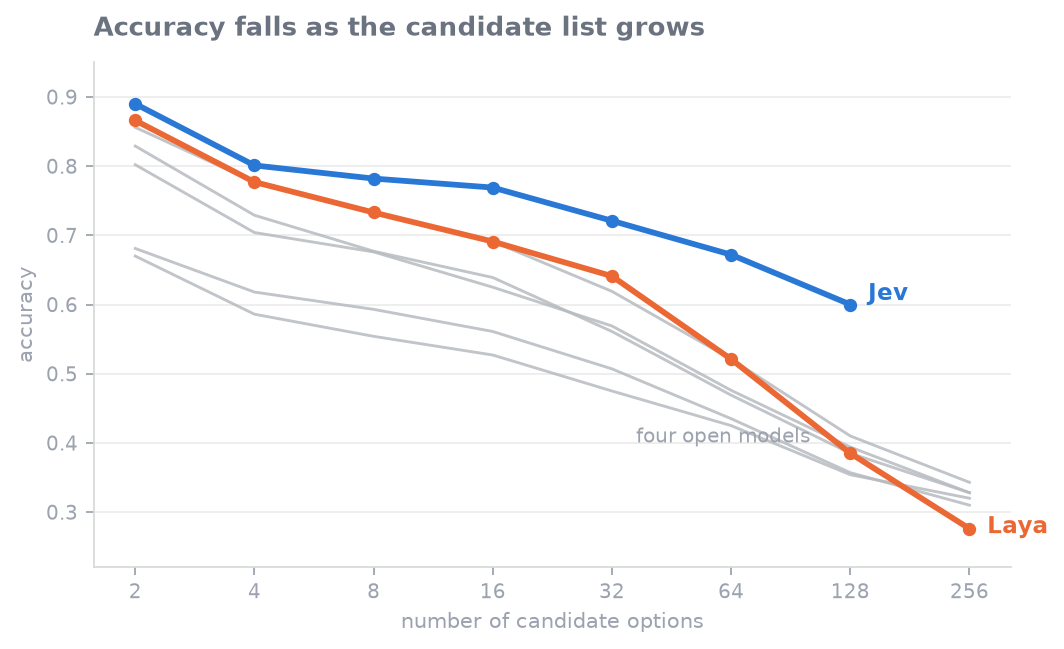
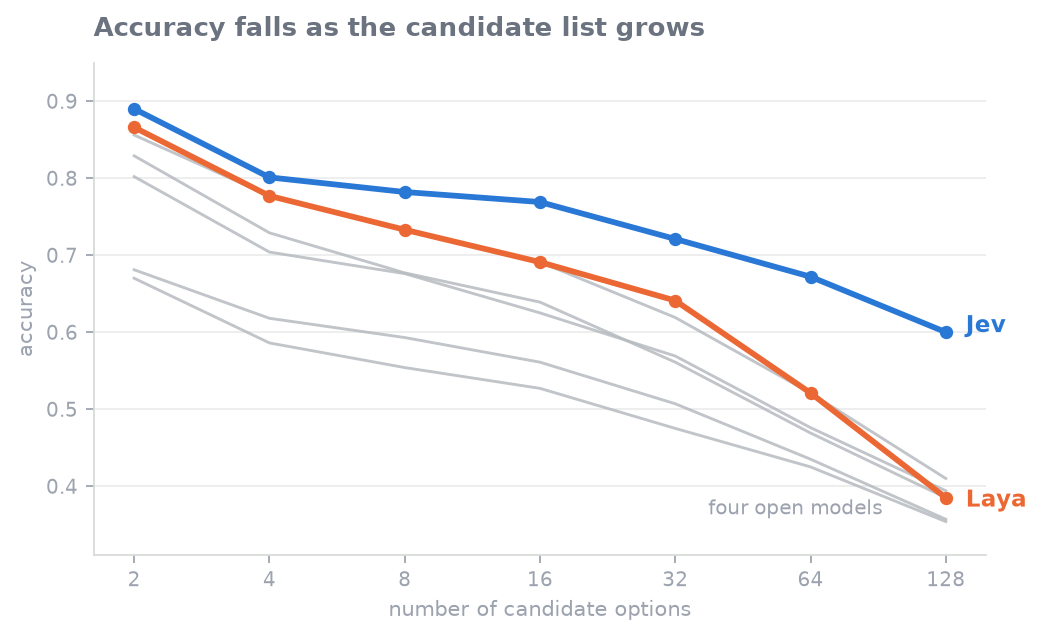
README: name the open models up front, cap the comparison at 128 candidates
Jev's API refuses more than 255 options, so every model now stops at the same
place. Corrects the roster count and restores gliclass, which reads candidates
as a set and belongs in that distinction.

diff --git a/harness/make_figures.py b/harness/make_figures.py
@@ -12,15 +12,15 @@ OUT.mkdir(parents=True, exist_ok=True)
 
 INK, MUTED, GRID = "#6b7280", "#9ca3af", "#d8dad8"
 JEV, LAYA, FIELD = "#2a78d6", "#eb6834", "#b6bbc0"
-KS = [2, 4, 8, 16, 32, 64, 128, 256]
+KS = [2, 4, 8, 16, 32, 64, 128]
 CURVES = {
-    "Jev":            [.890, .801, .782, .769, .721, .672, .600, None],
-    "Laya":           [.866, .777, .733, .691, .641, .521, .385, .276],
-    "deberta-large":  [.856, .777, .733, .691, .619, .521, .410, .343],
-    "deberta-base":   [.829, .729, .677, .639, .561, .469, .385, .328],
-    "gliclass":       [.802, .704, .676, .625, .569, .476, .394, .328],
-    "bge-large":      [.681, .618, .593, .561, .507, .435, .357, .310],
-    "gte-large":      [.670, .586, .554, .527, .475, .425, .354, .320],
+    "Jev":            [.890, .801, .782, .769, .721, .672, .600],
+    "Laya":           [.866, .777, .733, .691, .641, .521, .385],
+    "deberta-large":  [.856, .777, .733, .691, .619, .521, .410],
+    "deberta-base":   [.829, .729, .677, .639, .561, .469, .385],
+    "gliclass":       [.802, .704, .676, .625, .569, .476, .394],
+    "bge-large":      [.681, .618, .593, .561, .507, .435, .357],
+    "gte-large":      [.670, .586, .554, .527, .475, .425, .354],
 }
 
 
@@ -42,7 +42,7 @@ def save(fig, name):
 
 
 def kcurve():
-    fig, ax = plt.subplots(figsize=(7.4, 4.1))
+    fig, ax = plt.subplots(figsize=(7.2, 4.0))
     style(ax)
     for name, ys in CURVES.items():
         xs = [k for k, y in zip(KS, ys) if y is not None]
@@ -57,12 +57,12 @@ def kcurve():
     ax.set_xticks(KS); ax.set_xticklabels(KS)
     ax.set_xlabel("number of candidate options", color=MUTED, fontsize=9.5)
     ax.set_ylabel("accuracy", color=MUTED, fontsize=9.5)
-    ax.set_ylim(.22, .95)
-    ax.annotate("Jev", (128, .600), xytext=(8, 2), textcoords="offset points",
+    ax.set_ylim(.31, .95)
+    ax.annotate("Jev", (128, .600), xytext=(9, 0), textcoords="offset points",
                 color=JEV, fontsize=10.5, weight="bold")
-    ax.annotate("Laya", (256, .276), xytext=(8, -2), textcoords="offset points",
+    ax.annotate("Laya", (128, .385), xytext=(9, -4), textcoords="offset points",
                 color=LAYA, fontsize=10.5, weight="bold")
-    ax.annotate("four open models", (256, .330), xytext=(-150, 22),
+    ax.annotate("four open models", (64, .450), xytext=(-46, -30),
                 textcoords="offset points", color=MUTED, fontsize=9)
     ax.set_title("Accuracy falls as the candidate list grows", color=INK,
                  fontsize=11.5, weight="bold", loc="left", pad=12)

diff --git a/README.md b/README.md
@@ -1,8 +1,27 @@
 # Decision Models Under Pressure
 
-A comparison of six systems that take a piece of text, a question, and a list of
-candidate answers, and return a probability over those candidates. TypeSafe's
-Jev, Convai's Laya, and four open alternatives.
+A comparison of seven systems that take a piece of text, a question, and a list of
+candidate answers, and return a probability over those candidates. Two of them are
+the products this was really about: TypeSafe's **Jev**, which its makers call a new
+class of model, and Convai's **Laya**, whose author says he published the same idea
+a year earlier and that Jev is marketing on top of it.
+
+The other five are open models, and they are here to give those two numbers
+something to mean. How a model reads its candidates turns out to predict a lot, so
+they are grouped that way:
+
+| model | how it reads the candidates |
+| --- | --- |
+| `gliclass-large-v3.0` | all candidates in one pass, as a set, like Laya |
+| `deberta-v3-base-zeroshot-v2.0` | one pass per candidate, each scored against the text alone |
+| `deberta-v3-large-zeroshot-v2.0` | the same, larger |
+| `bge-large-en-v1.5` | embeds the text once, compares it to cached candidate vectors |
+| `thenlper/gte-large` | the same, different encoder |
+
+Only `gliclass` and Laya can see the candidates as a set. The other four score each
+one in isolation, which means they are incapable of noticing that two candidates
+are similar, and equally incapable of being swayed by the order you list them in.
+That distinction runs through all three results below.
 
 Published comparisons of these systems usually report one accuracy number on one
 candidate-set size. That turns out to hide most of what matters. In our data the
@@ -20,14 +39,17 @@ Every model gets worse as the candidate list grows. The difference is how fast.
 ![Accuracy against candidate-set size](docs/figures/k-curve.png)
 
 Jev starts highest and stays highest. At 128 candidates it answers 60% correctly
-where Laya manages 39% and the best open model 41%. Its decline per doubling of
-the list is the shallowest we measured, shallower even than the embedding-based
-scorers whose design is supposed to make them scale gracefully. Jev's line stops
-at 128 because its API refuses more than 255 options.
+where Laya manages 39% and the best open model 41%. Its decline per doubling of the
+list is the shallowest we measured, shallower even than the embedding scorers whose
+design is supposed to make them scale gracefully.
 
-Notice how little a single-number benchmark would tell you. At two candidates
-Laya and Jev are nearly tied and Laya beats four of the six models. At 128 Laya
-is last.
+The chart stops at 128 candidates because Jev's API refuses more than 255 options,
+and a comparison is only worth reading where every model has data.
+
+Notice how little a single-number benchmark would tell you. At two candidates Laya
+sits second of seven, beating five of the six systems it is measured against, and
+trails Jev by two points. At 128 it has fallen to fourth and trails Jev by
+twenty-two.
 
 Next we made the wrong answers hard. For every item we built two versions: one
 where the distractors came from unrelated domains, and one where they were the
@@ -60,9 +82,14 @@ flips on about a third. If you are routing support tickets this barely touches
 you. If you are scoring anything subjective it matters a lot.
 
 Two fixes are available to anyone deploying these systems today. Present the
-options in a fixed canonical order so the instability is at least deterministic,
-or ask the same question under several orderings and average the results, which
-buys exact stability at the price of several calls per decision.
+options in a fixed canonical order so the instability is at least deterministic, or
+ask the same question under several orderings and average the results, which buys
+exact stability at the price of several calls per decision.
+
+This is the result the four open models exist in this study to frame. Reading the
+candidates as a set is what lets a model weigh them against each other, and it is
+also what lets their order leak into the answer. The models that cannot do the
+first are immune to the second.
 
 ## What we cannot tell you
 
@@ -75,9 +102,10 @@ evaluation can settle it while the training data stays private.
 
 Three smaller limits. Jev rounds its probabilities to two decimals, which is too
 coarse for calibration analysis, so we report what it chose rather than how well
-calibrated it was. Its API caps candidate lists at 255 options, so its scaling
-curve stops where the open models continue. And the near-distractor comparison
-rests on two domains, both of which every model in the study has plausibly seen.
+calibrated it was. Its API caps candidate lists at 255 options, so we stopped every
+model at 128 and the behaviour of the open models beyond that is not reported here,
+though it is in the logs. And the near-distractor comparison rests on two domains,
+both of which every model in the study has plausibly seen.
 
 ## Reproducing it
 
